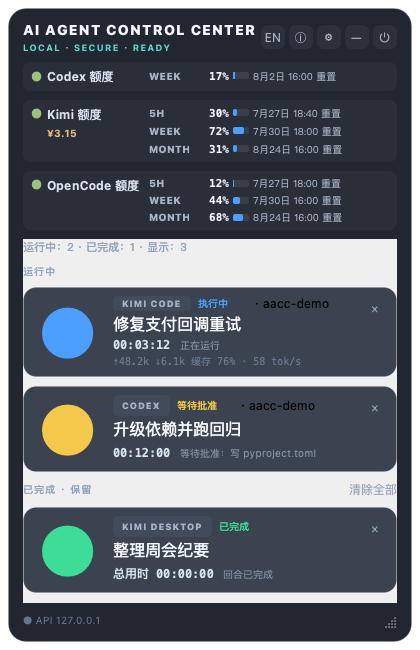
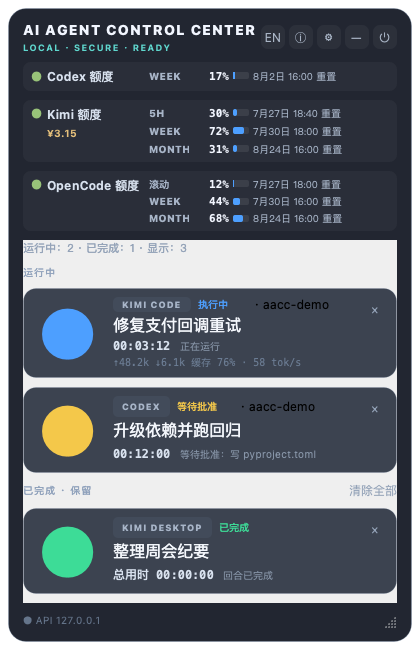
fix: label OpenCode rolling quota correctly

diff --git a/src/aacc/gui.py b/src/aacc/gui.py
@@ -610,7 +610,7 @@ class QuotaBar(QFrame):
 
 
 class OpenCodeQuotaBar(QFrame):
-    """OpenCode workspace quota strip (5H / WEEK / MONTH) from web session data."""
+    """OpenCode workspace quota strip (ROLLING / WEEK / MONTH) from web session data."""
 
     clicked = Signal()
 
@@ -647,9 +647,9 @@ class OpenCodeQuotaBar(QFrame):
         metric_layout.setColumnStretch(2, 1)
         layout.addLayout(metric_layout, 0, 2, 1, 1)
         layout.setColumnStretch(2, 1)
-        self._rolling_row = _add_quota_metric_row(metric_layout, 0, "5H")
-        self._weekly_row = _add_quota_metric_row(metric_layout, 1, "WEEK")
-        self._monthly_row = _add_quota_metric_row(metric_layout, 2, "MONTH")
+        self._rolling_row = _add_quota_metric_row(metric_layout, 0, "")
+        self._weekly_row = _add_quota_metric_row(metric_layout, 1, "")
+        self._monthly_row = _add_quota_metric_row(metric_layout, 2, "")
         self._metric_rows = [self._rolling_row, self._weekly_row, self._monthly_row]
         self.rolling_label = self._rolling_row.percent_label
         self.rolling_bar = self._rolling_row.progress_bar
@@ -657,7 +657,13 @@ class OpenCodeQuotaBar(QFrame):
         self.weekly_bar = self._weekly_row.progress_bar
         self.monthly_label = self._monthly_row.percent_label
         self.monthly_bar = self._monthly_row.progress_bar
+        self._set_period_labels()
         self.show_unauthorized()
+
+    def _set_period_labels(self) -> None:
+        self._rolling_row.period_label.setText(self.language_manager.text("opencode.rolling"))
+        self._weekly_row.period_label.setText(self.language_manager.text("quota.week"))
+        self._monthly_row.period_label.setText(self.language_manager.text("quota.month"))
 
     def period_labels(self) -> list[str]:
         return [row.period_label.text() for row in self._metric_rows]
@@ -748,9 +754,9 @@ class OpenCodeQuotaBar(QFrame):
         self._show_detail(self._weekly_row, quota.weekly)
         self._show_detail(self._monthly_row, quota.monthly)
         tooltip_lines = [
-            self._detail_tooltip("5H", quota.rolling),
-            self._detail_tooltip("WEEK", quota.weekly),
-            self._detail_tooltip("MONTH", quota.monthly),
+            self._detail_tooltip(self.language_manager.text("opencode.rolling"), quota.rolling),
+            self._detail_tooltip(self.language_manager.text("quota.week"), quota.weekly),
+            self._detail_tooltip(self.language_manager.text("quota.month"), quota.monthly),
         ]
         if quota.fetched_at is not None:
             tooltip_lines.append(
@@ -800,6 +806,7 @@ class OpenCodeQuotaBar(QFrame):
         self.setToolTip(f"{previous}{error_text}\n{retry}")
 
     def retranslate_ui(self) -> None:
+        self._set_period_labels()
         if self._display_state == "pending":
             self.show_pending()
         elif self._display_state == "quota" and self._last_quota is not None:

diff --git a/src/aacc/i18n.py b/src/aacc/i18n.py
@@ -76,6 +76,7 @@ CATALOGS: dict[Language, dict[str, str]] = {
         "quota.booster": "加油包",
         "quota.last_update": "上次更新 {updated}",
         "opencode.quota": "OpenCode 额度",
+        "opencode.rolling": "滚动",
         "opencode.web_title": "OpenCode 工作区登录",
         "opencode.web_starting": "正在启动 OpenCode 登录页面，请稍候…",
         "opencode.web_need_config": "请先在 config.yaml 中配置 opencode_workspace_url",
@@ -131,7 +132,7 @@ CATALOGS: dict[Language, dict[str, str]] = {
         "settings.kimi_web_login": "登录 Kimi 会员（同步 5H / WEEK / MONTH）",
         "settings.kimi_edge_login": "使用专用 Edge 登录 Kimi（同步 5H / WEEK / MONTH）",
         "settings.kimi_logout": "退出 Kimi 登录",
-        "settings.opencode_web_login": "登录 OpenCode（同步 5H / WEEK / MONTH）",
+        "settings.opencode_web_login": "登录 OpenCode（同步 滚动 / WEEK / MONTH）",
         "settings.opencode_logout": "退出 OpenCode",
         "settings.visible_agents": "显示哪些程序",
         "settings.generic_cli": "Z Code / 通用 CLI",
@@ -266,6 +267,7 @@ CATALOGS: dict[Language, dict[str, str]] = {
         "quota.booster": "Booster pack",
         "quota.last_update": "Last updated {updated}",
         "opencode.quota": "OpenCode quota",
+        "opencode.rolling": "ROLLING",
         "opencode.web_title": "OpenCode workspace login",
         "opencode.web_starting": "Starting the OpenCode login page. Please wait…",
         "opencode.web_need_config": "Set opencode_workspace_url in config.yaml first",
@@ -323,7 +325,7 @@ CATALOGS: dict[Language, dict[str, str]] = {
             "Sign in to Kimi with dedicated Edge (sync 5H / WEEK / MONTH)"
         ),
         "settings.kimi_logout": "Sign out of Kimi",
-        "settings.opencode_web_login": "Sign in to OpenCode (sync 5H / WEEK / MONTH)",
+        "settings.opencode_web_login": "Sign in to OpenCode (sync ROLLING / WEEK / MONTH)",
         "settings.opencode_logout": "Sign out of OpenCode",
         "settings.visible_agents": "Visible applications",
         "settings.generic_cli": "Z Code / Generic CLI",

diff --git a/tests/test_opencode_quota_bar.py b/tests/test_opencode_quota_bar.py
@@ -22,7 +22,7 @@ def _quota() -> OpenCodeQuota:
 def test_bar_shows_three_metric_rows(qapp: object) -> None:
     bar = OpenCodeQuotaBar()
     assert bar.metric_row_count() == 3
-    assert bar.period_labels() == ["5H", "WEEK", "MONTH"]
+    assert bar.period_labels() == ["滚动", "WEEK", "MONTH"]
 
 
 def test_bar_renders_quota_percentages_and_resets(qapp: object) -> None:
@@ -49,10 +49,11 @@ def test_bar_uses_quota_wording_and_never_renders_none_percent(qapp: object) -> 
 
     assert "OpenCode 额度" in bar.summary_label.text()
     assert "None%" not in bar.toolTip()
-    assert "5H: --" in bar.toolTip()
+    assert "滚动: --" in bar.toolTip()
 
     english = OpenCodeQuotaBar(LanguageManager(EN_US))
     assert english.language_manager.text("opencode.quota") == "OpenCode quota"
+    assert english.period_labels() == ["ROLLING", "WEEK", "MONTH"]
 
 
 def test_bar_unauthorized_state(qapp: object) -> None:

diff --git a/tests/test_i18n.py b/tests/test_i18n.py
@@ -63,6 +63,7 @@ def test_catalog_contains_all_shared_keys() -> None:
         "quota.membership",
         "quota.booster",
         "quota.last_update",
+        "opencode.rolling",
         "task.switch",
         "task.manual_status",
         "task.copy",
@@ -104,6 +105,7 @@ def test_opencode_web_keys_exist_in_both_catalogs() -> None:
         "opencode.web_refresh_failed",
         "opencode.web_parse_failed",
         "opencode.quota",
+        "opencode.rolling",
         "settings.opencode_web_login",
         "settings.opencode_logout",
     ]

diff --git a/tests/test_gui_quota_wiring.py b/tests/test_gui_quota_wiring.py
@@ -834,7 +834,7 @@ def test_settings_dialog_opencode_login_logout_buttons(qtbot, tmp_path):
     dialog = SettingsDialog(window)
     qtbot.addWidget(dialog)
     buttons = {button.text(): button for button in dialog.findChildren(QPushButton)}
-    login = buttons["登录 OpenCode（同步 5H / WEEK / MONTH）"]
+    login = buttons["登录 OpenCode（同步 滚动 / WEEK / MONTH）"]
     logout = buttons["退出 OpenCode"]
     login.click()
     assert service.logins == 1

diff --git a/scripts/capture_panel_screenshot.py b/scripts/capture_panel_screenshot.py
@@ -54,7 +54,7 @@ CODEX_WEEK = 17
 KIMI_5H = 30
 KIMI_WEEK = 72
 KIMI_MONTH = 31
-OPENCODE_5H = 12
+OPENCODE_ROLLING = 12
 OPENCODE_WEEK = 44
 OPENCODE_MONTH = 68
 
@@ -176,7 +176,7 @@ def _demo_quota() -> KimiQuota:
 def _demo_opencode_quota() -> OpenCodeQuota:
     return OpenCodeQuota(
         rolling=OpenCodeUsage(
-            OPENCODE_5H,
+            OPENCODE_ROLLING,
             3600 * 2,
             DEMO_NOW + timedelta(hours=2),
         ),

diff --git a/tests/test_release_docs.py b/tests/test_release_docs.py
@@ -41,7 +41,7 @@ def test_screenshot_fixture_is_fixed_and_privacy_safe() -> None:
     assert "KIMI_5H = 30" in script
     assert "KIMI_WEEK = 72" in script
     assert "KIMI_MONTH = 31" in script
-    assert "OPENCODE_5H = 12" in script
+    assert "OPENCODE_ROLLING = 12" in script
     assert "OPENCODE_WEEK = 44" in script
     assert "OPENCODE_MONTH = 68" in script
     assert "OpenCodeQuota" in script

diff --git a/src/aacc/file_security_windows.py b/src/aacc/file_security_windows.py
@@ -496,7 +496,7 @@ def replace_windows_file(
     try:
         parent_handle = open_handle(
             target.parent,
-            file_list_directory | file_add_file | file_read_attributes | file_delete,
+            file_list_directory | file_add_file | file_read_attributes,
             file_flag_backup_semantics | file_flag_open_reparse_point,
         )
         reject_reparse(parent_handle)

diff --git a/docs/release-notes-1.4.4rc1.md b/docs/release-notes-1.4.4rc1.md
@@ -35,6 +35,9 @@ claim of consumer Windows 10/11 hardware validation.
 - **Local API warning.** The API token reset dialog and API documentation now
   explicitly warn that `/send-text` plus `Enter` can execute commands in a
   terminal-like target if the token is leaked.
+- **Quota terminology.** OpenCode's `rollingUsage` is labeled `ROLLING` in
+  English and `滚动` in Chinese; the `5H` label remains specific to Kimi and
+  is no longer shown for OpenCode.
 - **Platform hardening.** Windows sensitive-file publication retains a
   DELETE-capable native writer, verifies file identity against the original
   write handle, derives the destination from a verified non-reparse parent's
@@ -98,6 +101,8 @@ documented Gatekeeper or SmartScreen path.
   runner、版本的 provenance JSON；这些是 CI 证据输入，不是消费级真机证据。
 - **本地 API 警示。** API Token 重置对话框和 API 文档明确警示：Token 泄露后，
   `/send-text` 配合 `Enter` 可能在终端类目标中执行命令。
+- **额度术语统一。** OpenCode 的 `rollingUsage` 在英文界面显示为 `ROLLING`，
+  中文界面显示为“滚动”；`5H` 仅保留给 Kimi，不再显示在 OpenCode 上。
 - **平台加固。** Windows 敏感文件发布使用带 DELETE 权限的原生写入句柄，
   将原始写入句柄的文件身份与新句柄比对，并从已验证的非 reparse 父目录句柄取得 canonical
   final path 后发布，同时拒绝不安全凭据路径；Uvicorn 启动前再次检查回环边界；Windows broker

diff --git a/CHANGELOG.md b/CHANGELOG.md
@@ -11,6 +11,7 @@
 - [Integration] Wire configured non-native Agent adapters into a conservative process-level discovery service; process disappearance is STOPPED and never claimed as agent-specific completion.
 - [Security] Require unique desktop targets and verify foreground identity immediately before input injection on both macOS and Windows; ambiguous or changed targets fail closed.
 - [Security] Anchor POSIX config replacement to an opened parent directory, disable proxy inheritance for loopback status calls, escape CR/LF in AppleScript strings, and avoid absolute Daimon paths in INFO logs.
+- [UI] Label OpenCode's rolling quota as `ROLLING` (Chinese: `滚动`) instead of incorrectly presenting it as Kimi's `5H` window.
 - [Build] Align macOS RC artifact naming with the public `1.4.4-rc.1` version, keep Windows Setup on PEP 440 `1.4.4rc1`, and replace the hard-coded macOS bundle build number.
 
 ## 1.4.3 — 2026-08-01

diff --git a/CHANGELOG.zh-CN.md b/CHANGELOG.zh-CN.md
@@ -9,6 +9,7 @@
 - [集成] 将已配置的非原生 Agent Adapter 接入保守的进程级发现服务；进程消失显示 STOPPED，不声称 Agent 专属完成。
 - [安全] macOS 与 Windows 都要求桌面目标唯一，并在注入前立即核验前台身份；目标歧义或焦点变化时失败关闭。
 - [安全] POSIX 配置替换改为基于已打开父目录的锚定操作；回环状态请求禁用代理继承；AppleScript 转义 CR/LF；INFO 日志不再记录 Daimon 绝对路径。
+- [界面] OpenCode 滚动额度统一显示为英文 `ROLLING`、中文“滚动”，不再错误显示为 Kimi 的 `5H` 窗口。
 - [构建] macOS RC 产物使用公开版本 `1.4.4-rc.1` 命名；Windows Setup 保持 PEP 440 的 `1.4.4rc1`；macOS Bundle 不再使用硬编码构建号。
 
 ## 1.4.3 — 2026-08-01
